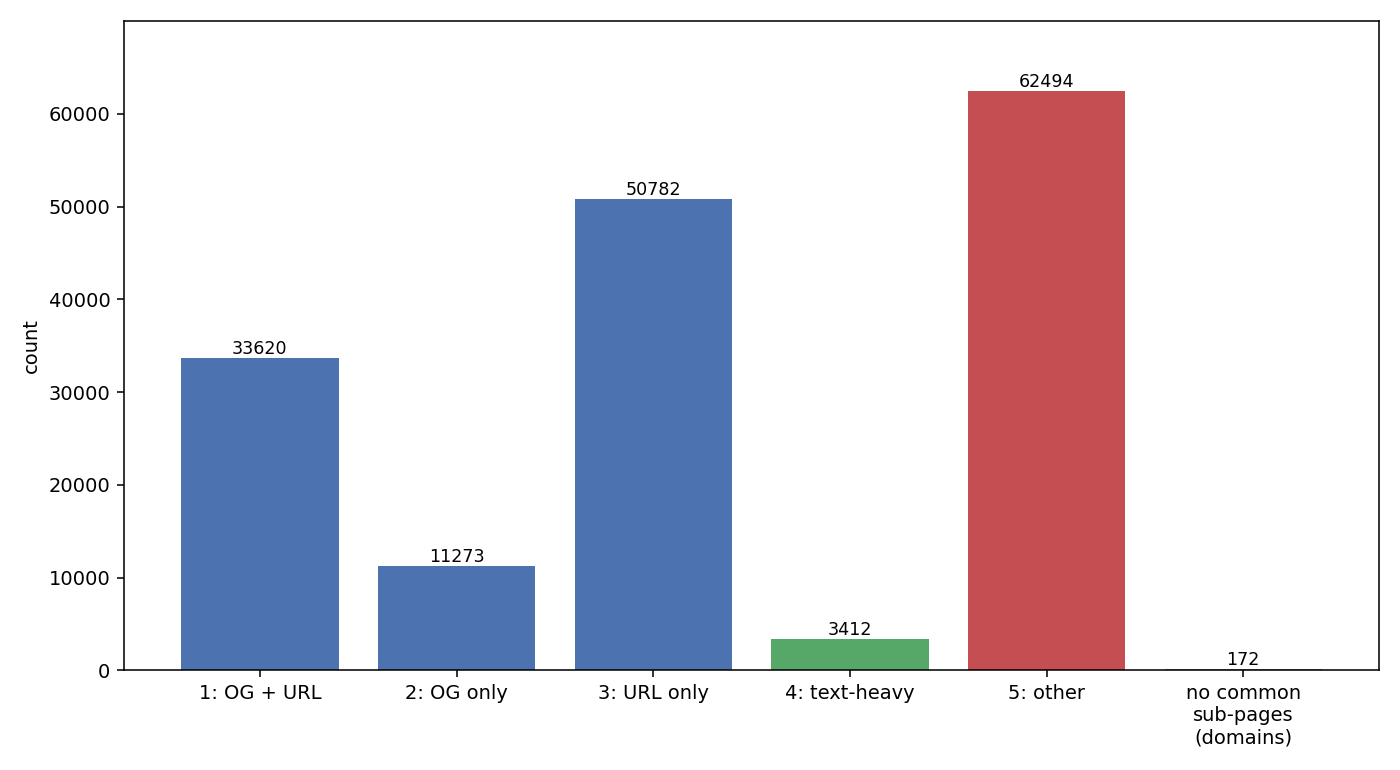
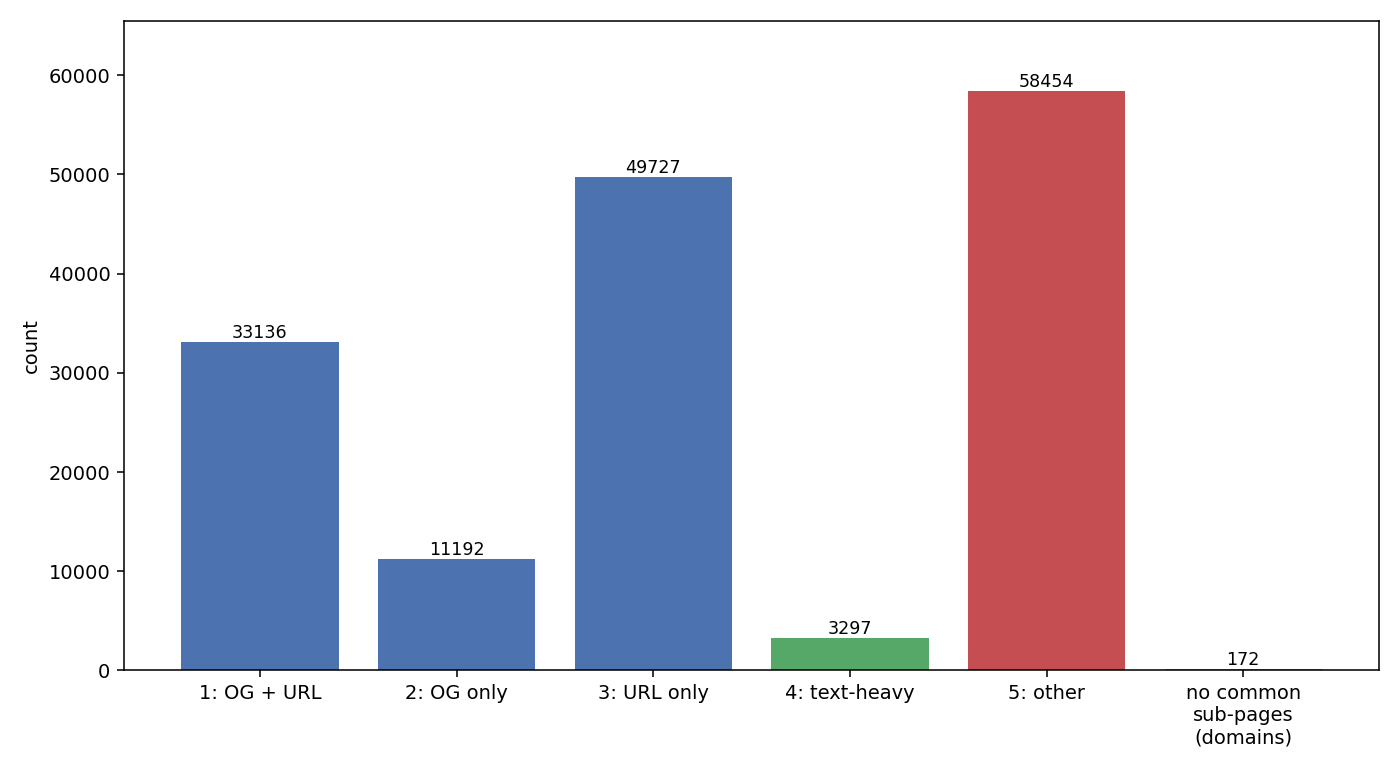
final selection of sub-pages

diff --git a/SubPage_Extraction/4_analyze_bucket_distribution.py b/SubPage_Extraction/4_analyze_bucket_distribution.py
@@ -39,18 +39,23 @@ def main():
         buckets_by_domain = json.load(input_file)
 
     total_domains = len(buckets_by_domain)
-    url_counts_per_bucket = [0, 0, 0, 0, 0]
     domains_with_no_subpages = 0
 
+    # count each URL ONCE across the whole dataset
+    bucket_of_url = {}
     for domain_label in buckets_by_domain:
         domain_buckets = buckets_by_domain[domain_label]
         domain_total = 0
         for index, bucket_name in enumerate(bucket_keys):
-            count = len(domain_buckets.get(bucket_name, []))
-            url_counts_per_bucket[index] += count
-            domain_total += count
+            for record in domain_buckets.get(bucket_name, []):
+                bucket_of_url[record["url"]] = index
+                domain_total += 1
         if domain_total == 0:
             domains_with_no_subpages += 1
+
+    url_counts_per_bucket = [0, 0, 0, 0, 0]
+    for bucket_index in bucket_of_url.values():
+        url_counts_per_bucket[bucket_index] += 1
 
     total_urls = sum(url_counts_per_bucket)
 